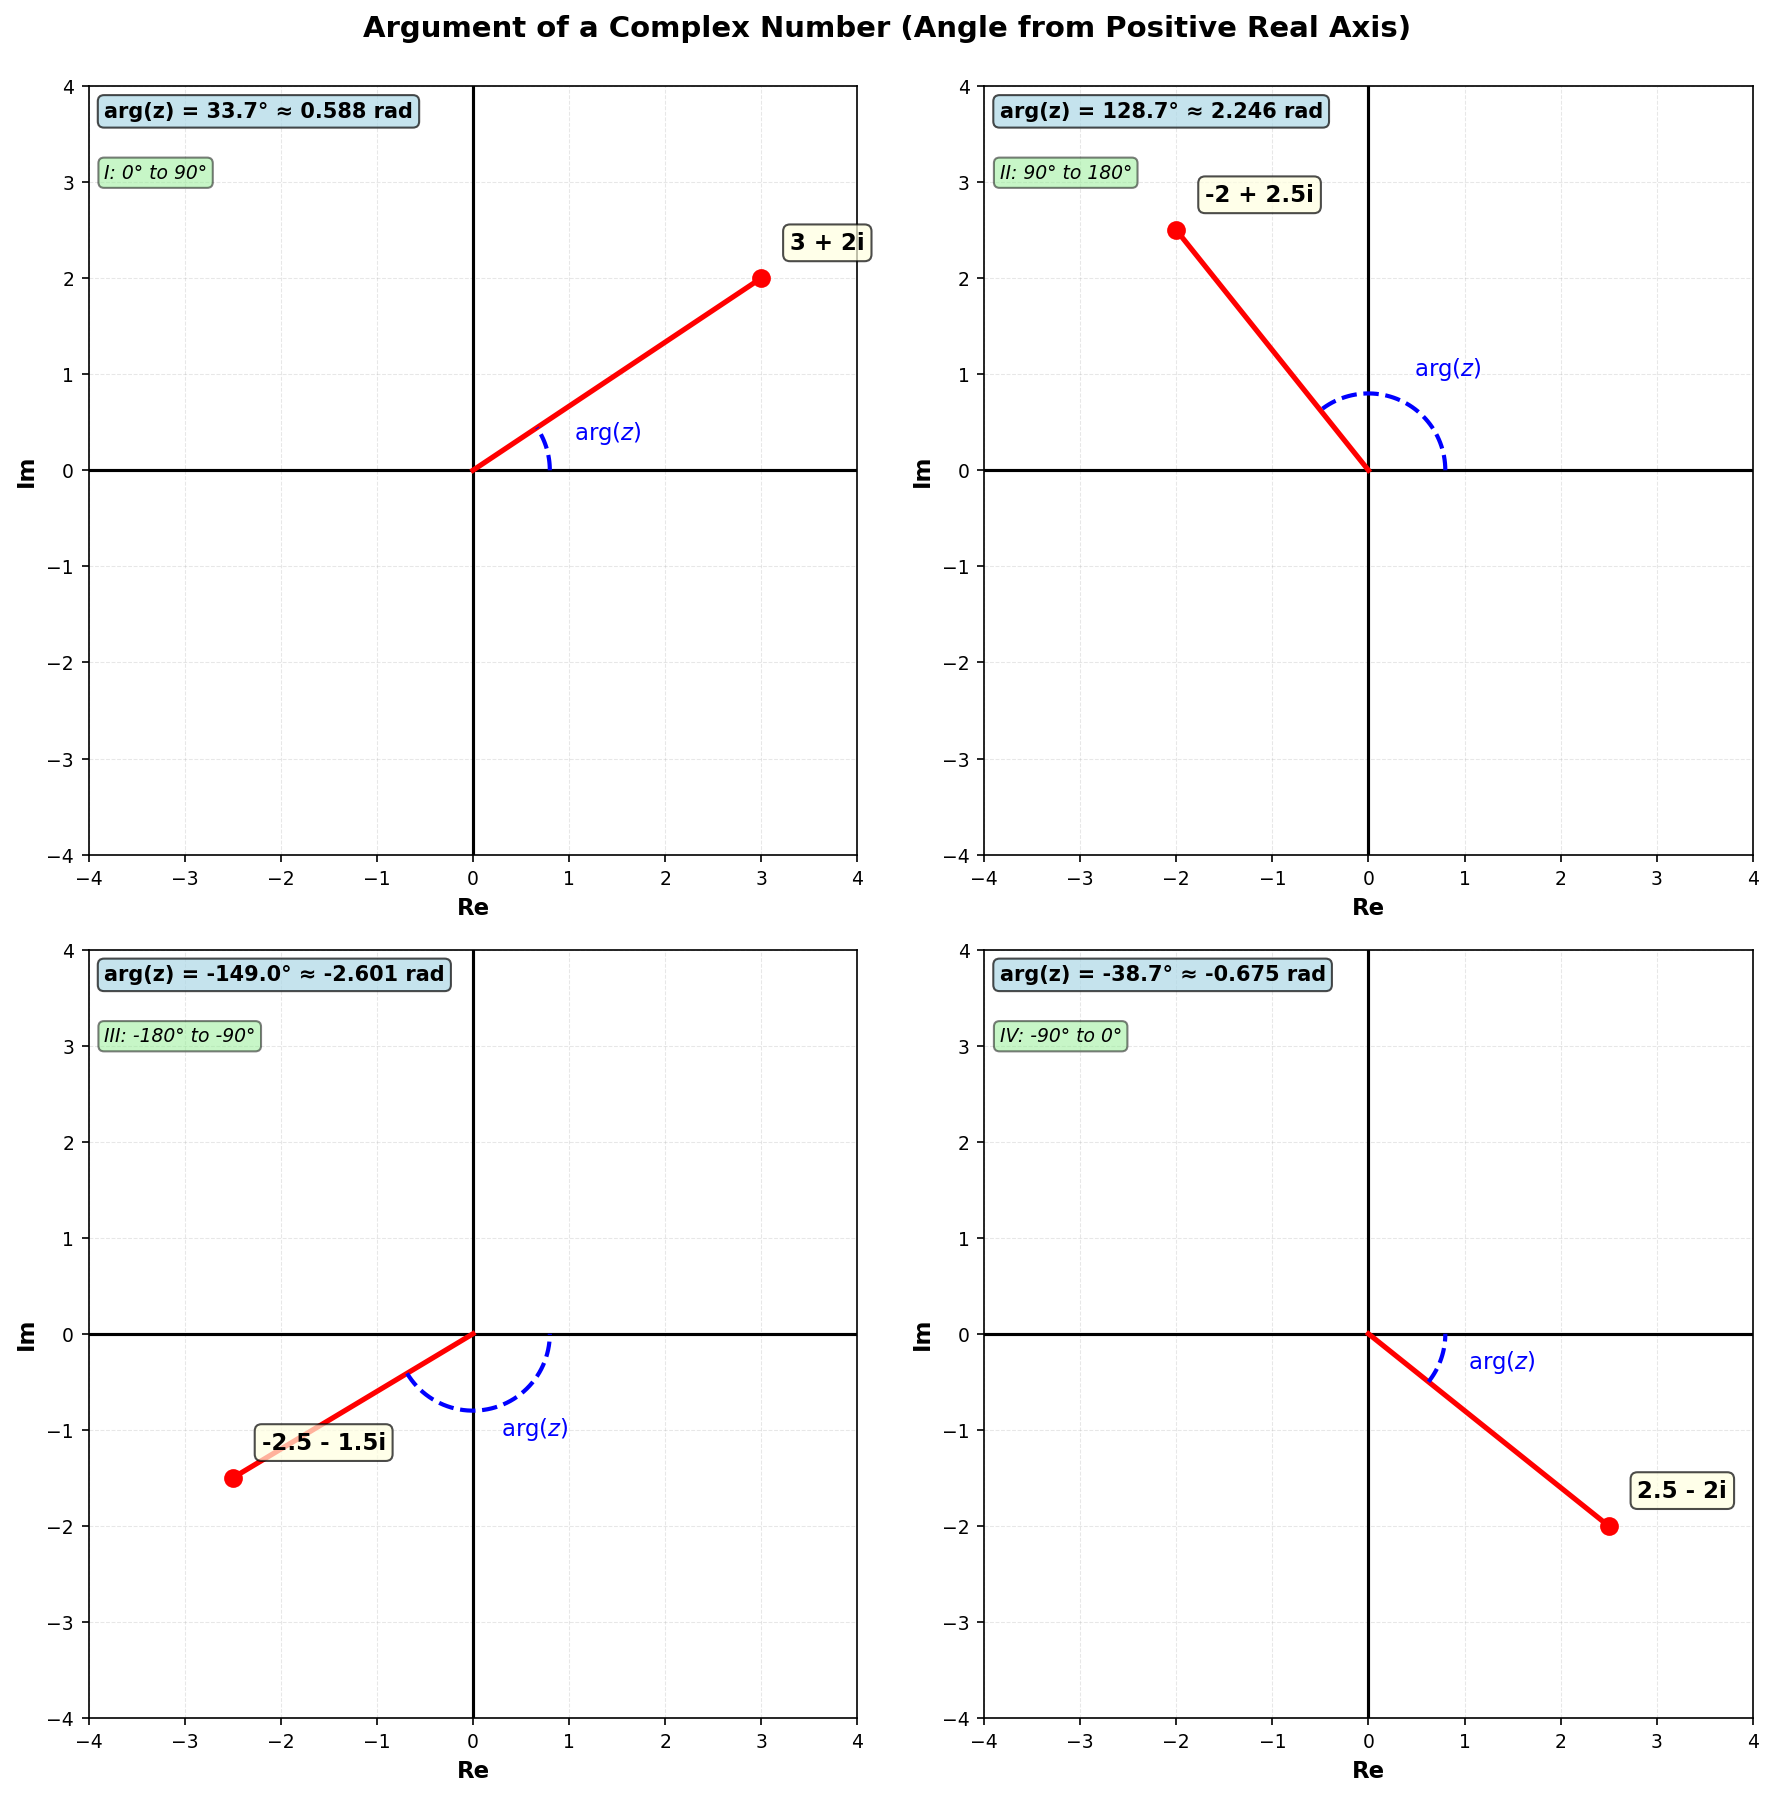
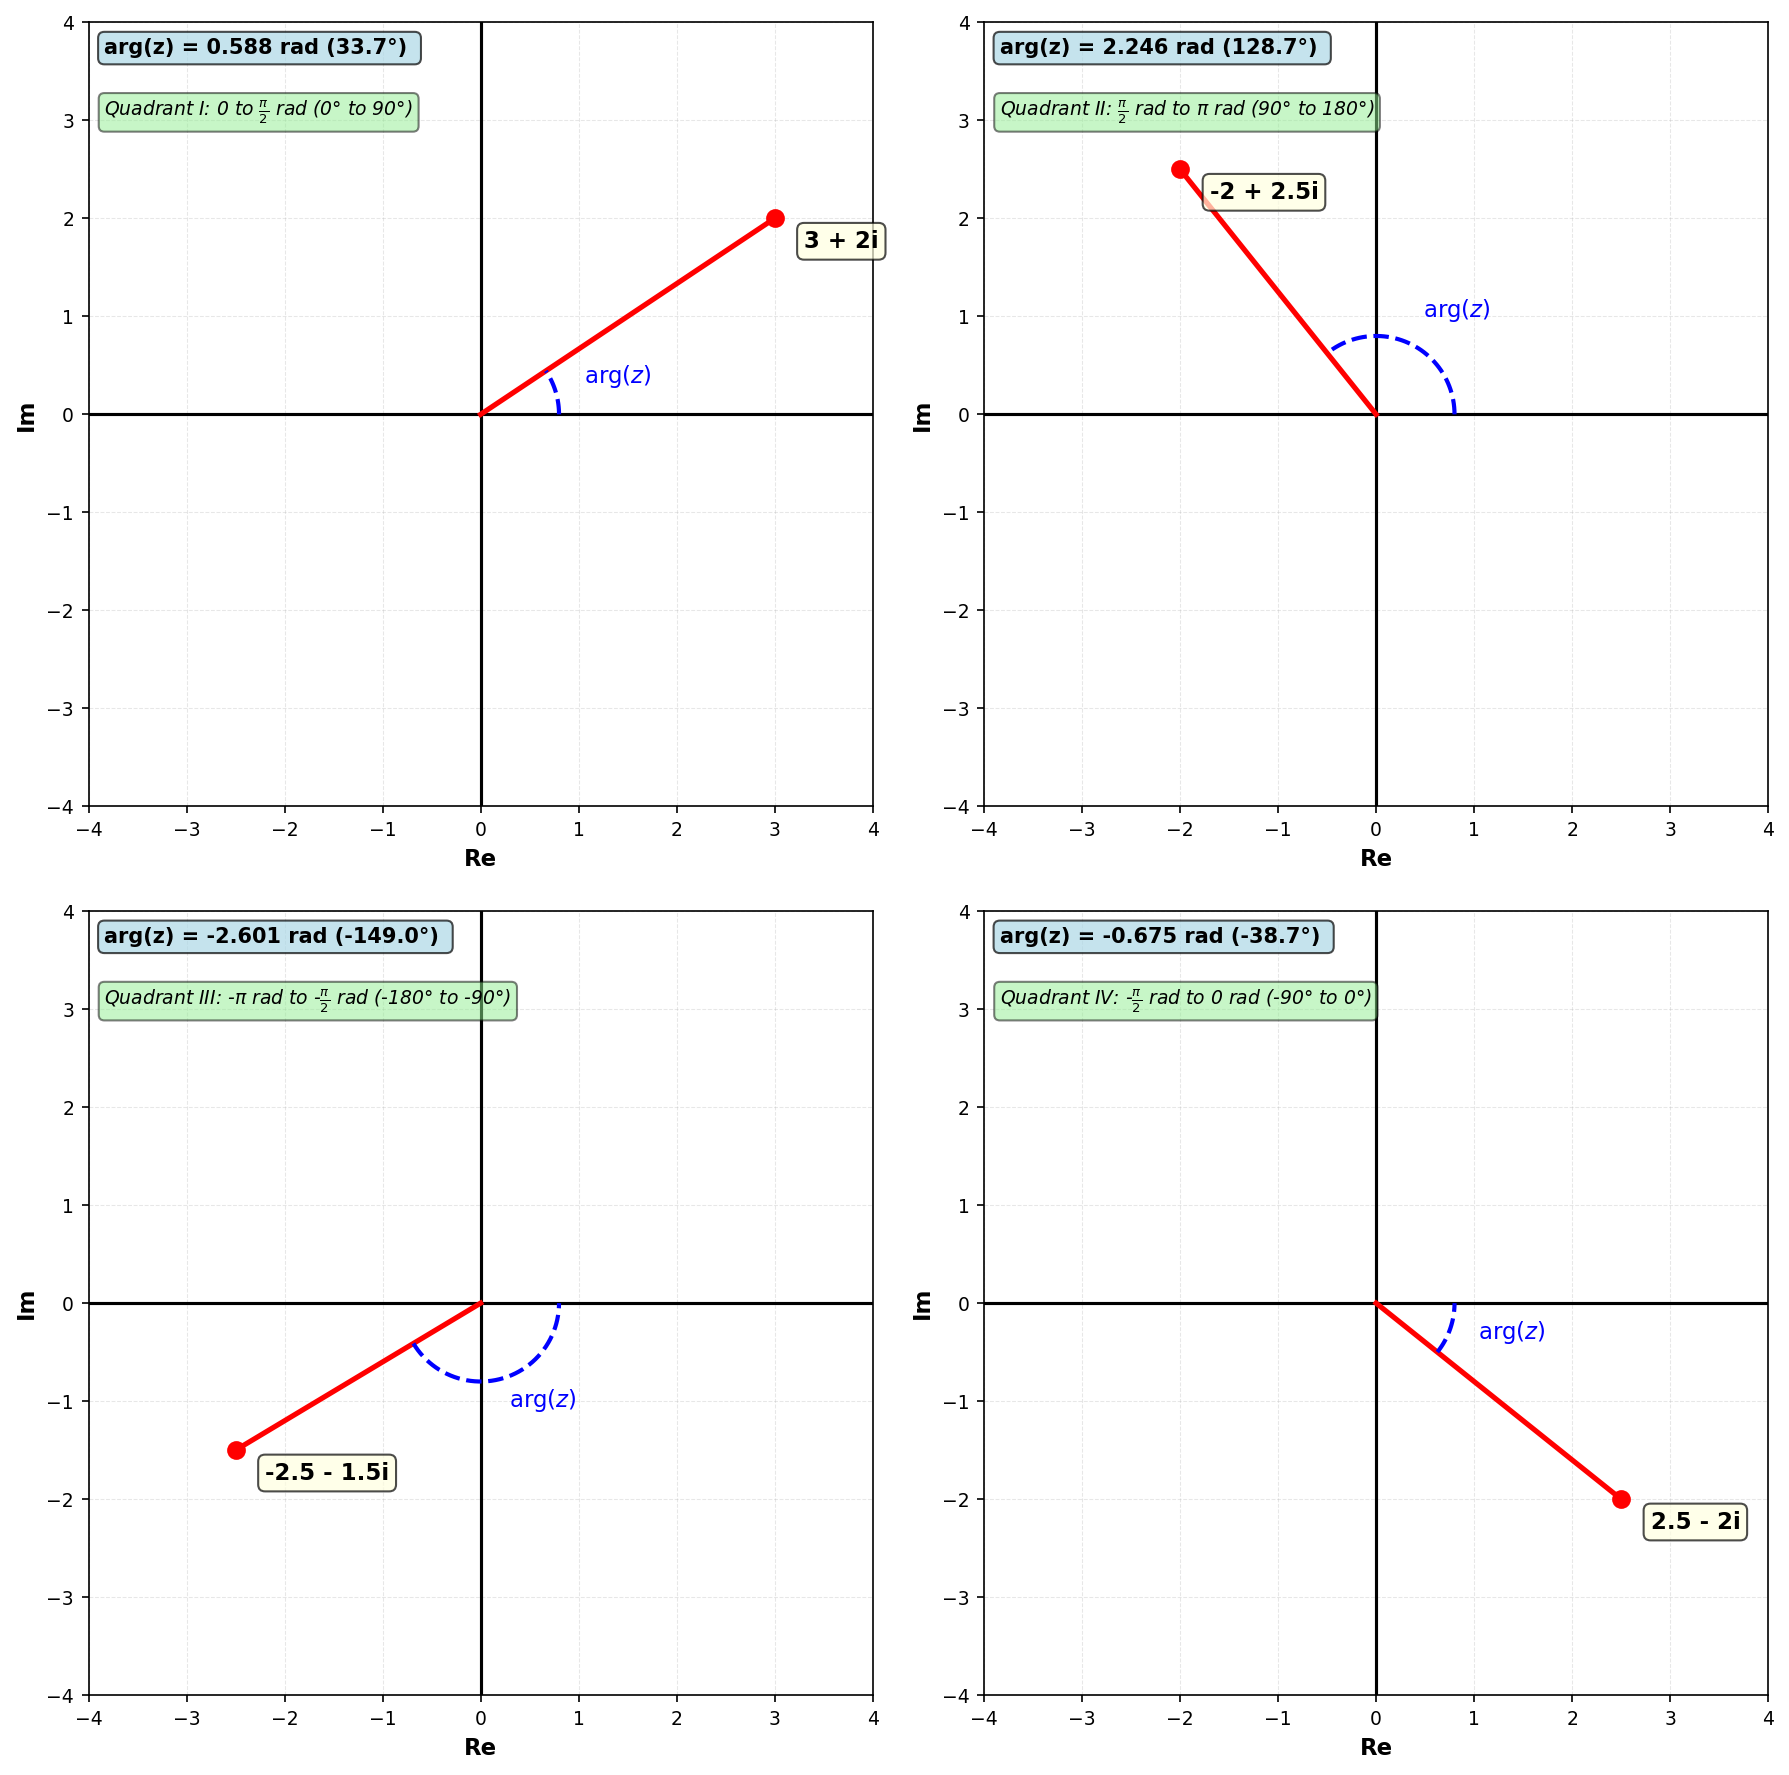
Gave radian measurements prime placement

diff --git a/resources/complex_argument.py b/resources/complex_argument.py
@@ -9,7 +9,6 @@ import numpy as np
 
 # Create figure with subplots showing different quadrants
 fig, axes = plt.subplots(2, 2, figsize=(12, 12), dpi=150)
-fig.suptitle('Argument of a Complex Number (Angle from Positive Real Axis)', fontsize=14, fontweight='bold', y=0.995)
 
 # Define example complex numbers in each quadrant
 examples = [
@@ -61,17 +60,17 @@ for idx, (real, imag, label, ax_idx) in enumerate(examples):
     ax.text(angle_label_x, angle_label_y, r'$\arg(z)$', fontsize=11, color='blue', fontweight='bold')
     
     # Label the point
-    ax.text(real + 0.3, imag + 0.3, label, fontsize=11, fontweight='bold',
+    ax.text(real + 0.3, imag - 0.3, label, fontsize=11, fontweight='bold',
             bbox=dict(boxstyle='round', facecolor='lightyellow', alpha=0.7))
     
     # Show computed argument
-    arg_text = f'arg(z) = {arg_deg:.1f}° ≈ {arg_rad:.3f} rad'
+    arg_text = f'arg(z) = {arg_rad:.3f} rad ({arg_deg:.1f}°) '
     ax.text(0.02, 0.98, arg_text, transform=ax.transAxes, fontsize=10, fontweight='bold',
             bbox=dict(boxstyle='round', facecolor='lightblue', alpha=0.7),
             verticalalignment='top')
     
     # Mark quadrant
-    quadrant_names = ['I: 0° to 90°', 'II: 90° to 180°', 'III: -180° to -90°', 'IV: -90° to 0°']
+    quadrant_names = ['Quadrant I: 0 to $\\frac{\\pi}{2}$ rad (0° to 90°)', 'Quadrant II: $\\frac{\\pi}{2}$ rad to $\\pi$ rad (90° to 180°)', 'Quadrant III: -$\\pi$ rad to -$\\frac{\\pi}{2}$ rad (-180° to -90°)', 'Quadrant IV: -$\\frac{\\pi}{2}$ rad to 0 rad (-90° to 0°)']
     ax.text(0.02, 0.88, quadrant_names[ax_idx], transform=ax.transAxes, fontsize=9, style='italic',
             bbox=dict(boxstyle='round', facecolor='lightgreen', alpha=0.5))
 

diff --git a/content.md b/content.md
@@ -8,10 +8,10 @@ On the complex plane, imagine a ray starting at the origin and pointing to the c
 
 Notice that:
 
-- In **Quadrant I** (positive real and imaginary parts), the argument is between $0°$ and $90°$ (or $0$ to $\pi/2$ radians)
-- In **Quadrant II** (negative real, positive imaginary), the argument is between $90°$ and $180°$ (or $\pi/2$ to $\pi$ radians)
-- In **Quadrant III** (negative real and imaginary), the argument is between $-180°$ and $-90°$ (or $-\pi$ to $-\pi/2$ radians)
-- In **Quadrant IV** (positive real, negative imaginary), the argument is between $-90°$ and $0°$ (or $-\pi/2$ to $0$ radians)
+- In **Quadrant I** (positive real and imaginary parts), the argument is between $0$ to $\pi/2$ radians (0° to 90°)
+- In **Quadrant II** (negative real, positive imaginary), the argument is between $\pi/2$ to $\pi$ radians (90° to 180°)
+- In **Quadrant III** (negative real and imaginary), the argument is between $-\pi$ to $-\pi/2$ radians (-180° to -90°)
+- In **Quadrant IV** (positive real, negative imaginary), the argument is between $-\pi/2$ to $0$ radians (-90° to 0°)
 
 # Principal Value
 